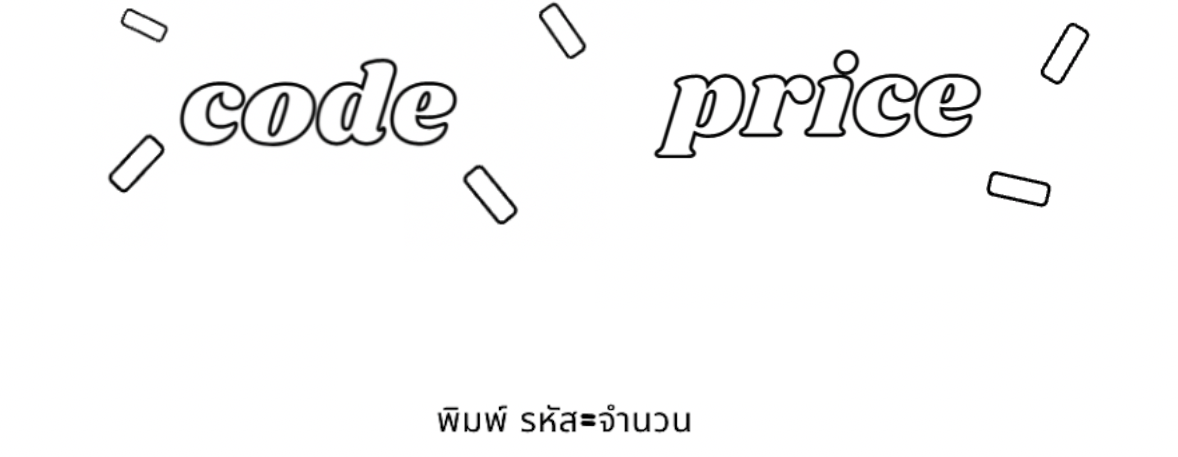
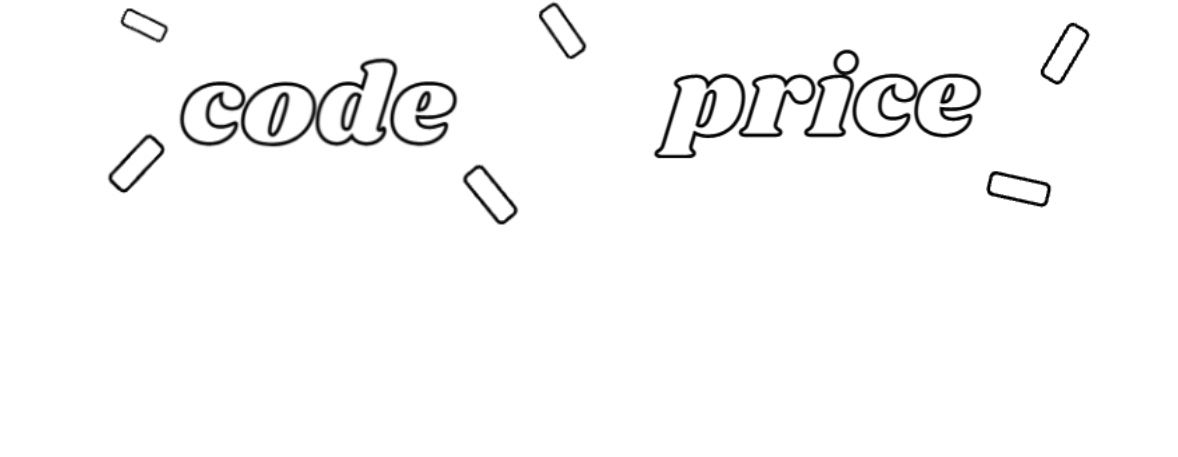
changed background and live description

Changed region(s): [[0.3667, 0.8884, 0.6112, 0.9497]]

diff --git a/public/index.html b/public/index.html
@@ -60,6 +60,17 @@
         top: 120px;
         width: 100%;
       }
+
+      #live_description {
+        font-size: 0.3em;
+        grid-column-start: 1;
+        grid-column-end: 3;
+        display: flex;
+        justify-content: center;
+        position: absolute;
+        top: 160px;
+        width: 100%;
+      }
     </style>
   </head>
   <body>
@@ -97,6 +108,7 @@
           <span style="font-size: 0.5em">บาท</span>
         </div>
         <div id="product_description">อธิบายอธิบายอธิบายอธิบาย</div>
+        <div id="live_description">พิมพ์ รหัส=จำนวน ค่าส่งเหมา 39 บาท</div>
         <!-- <div id="">พิมพ์ รหัส=จำนวน</div> -->
       </div>
     </div>
